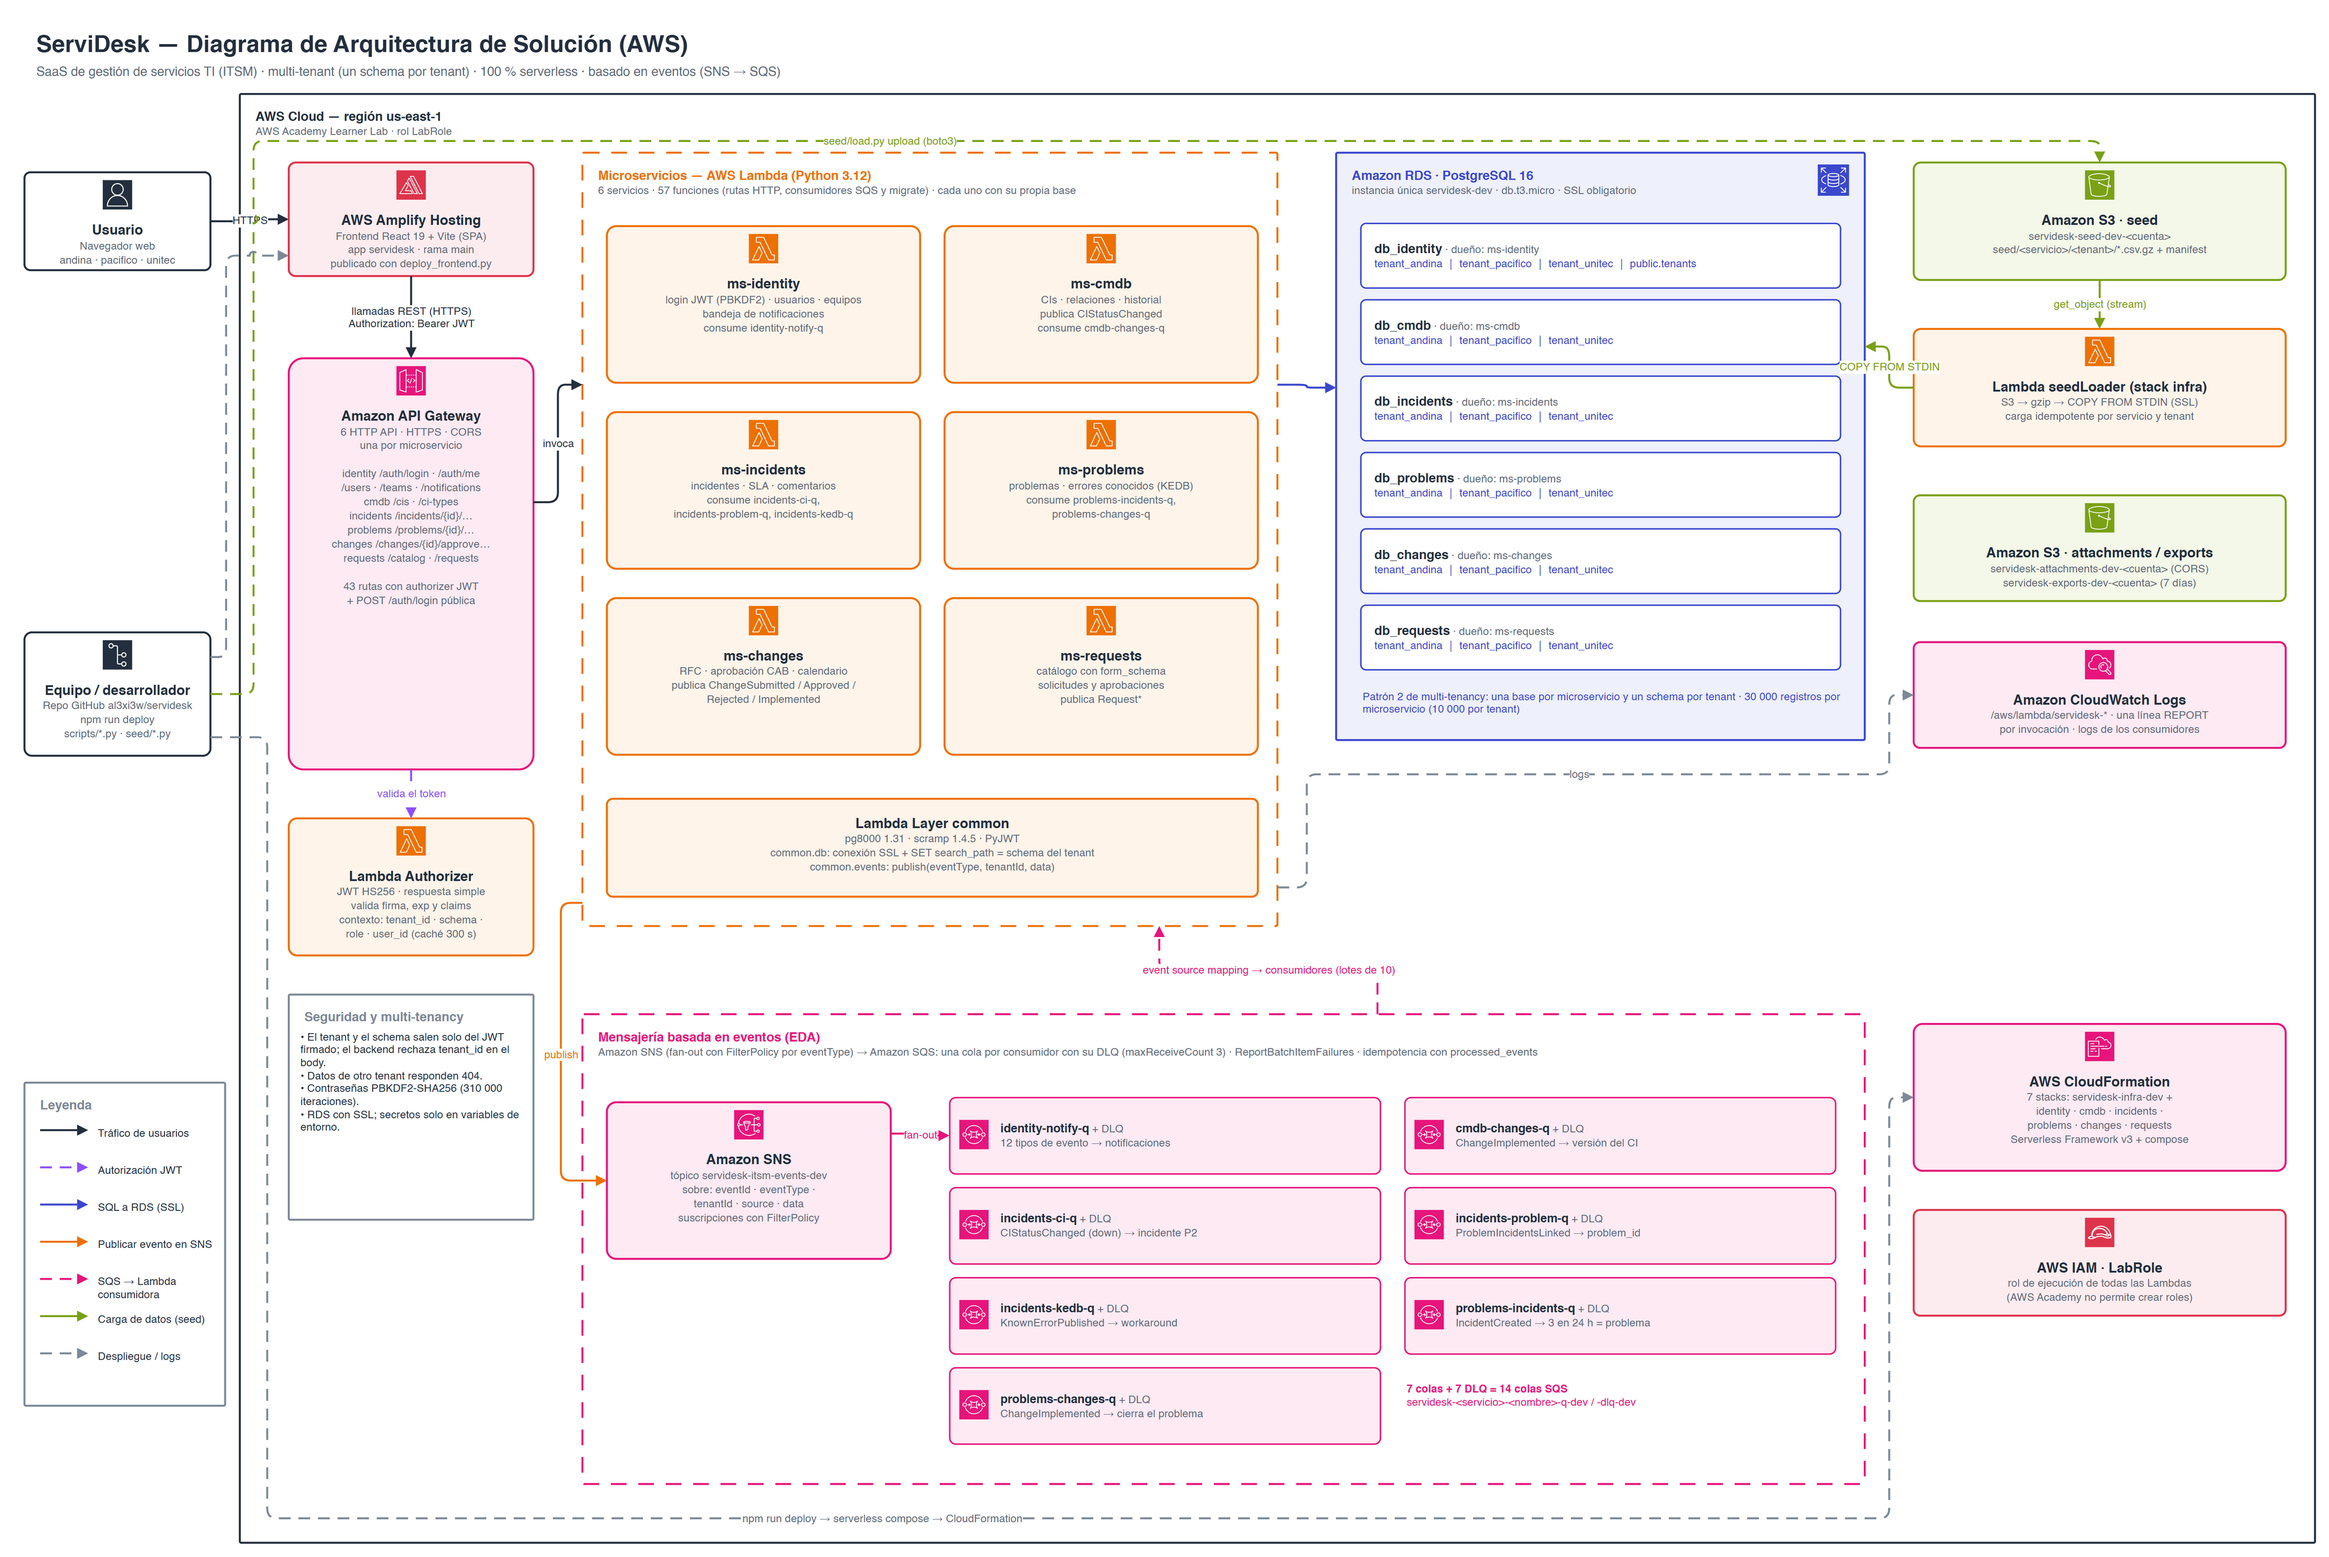
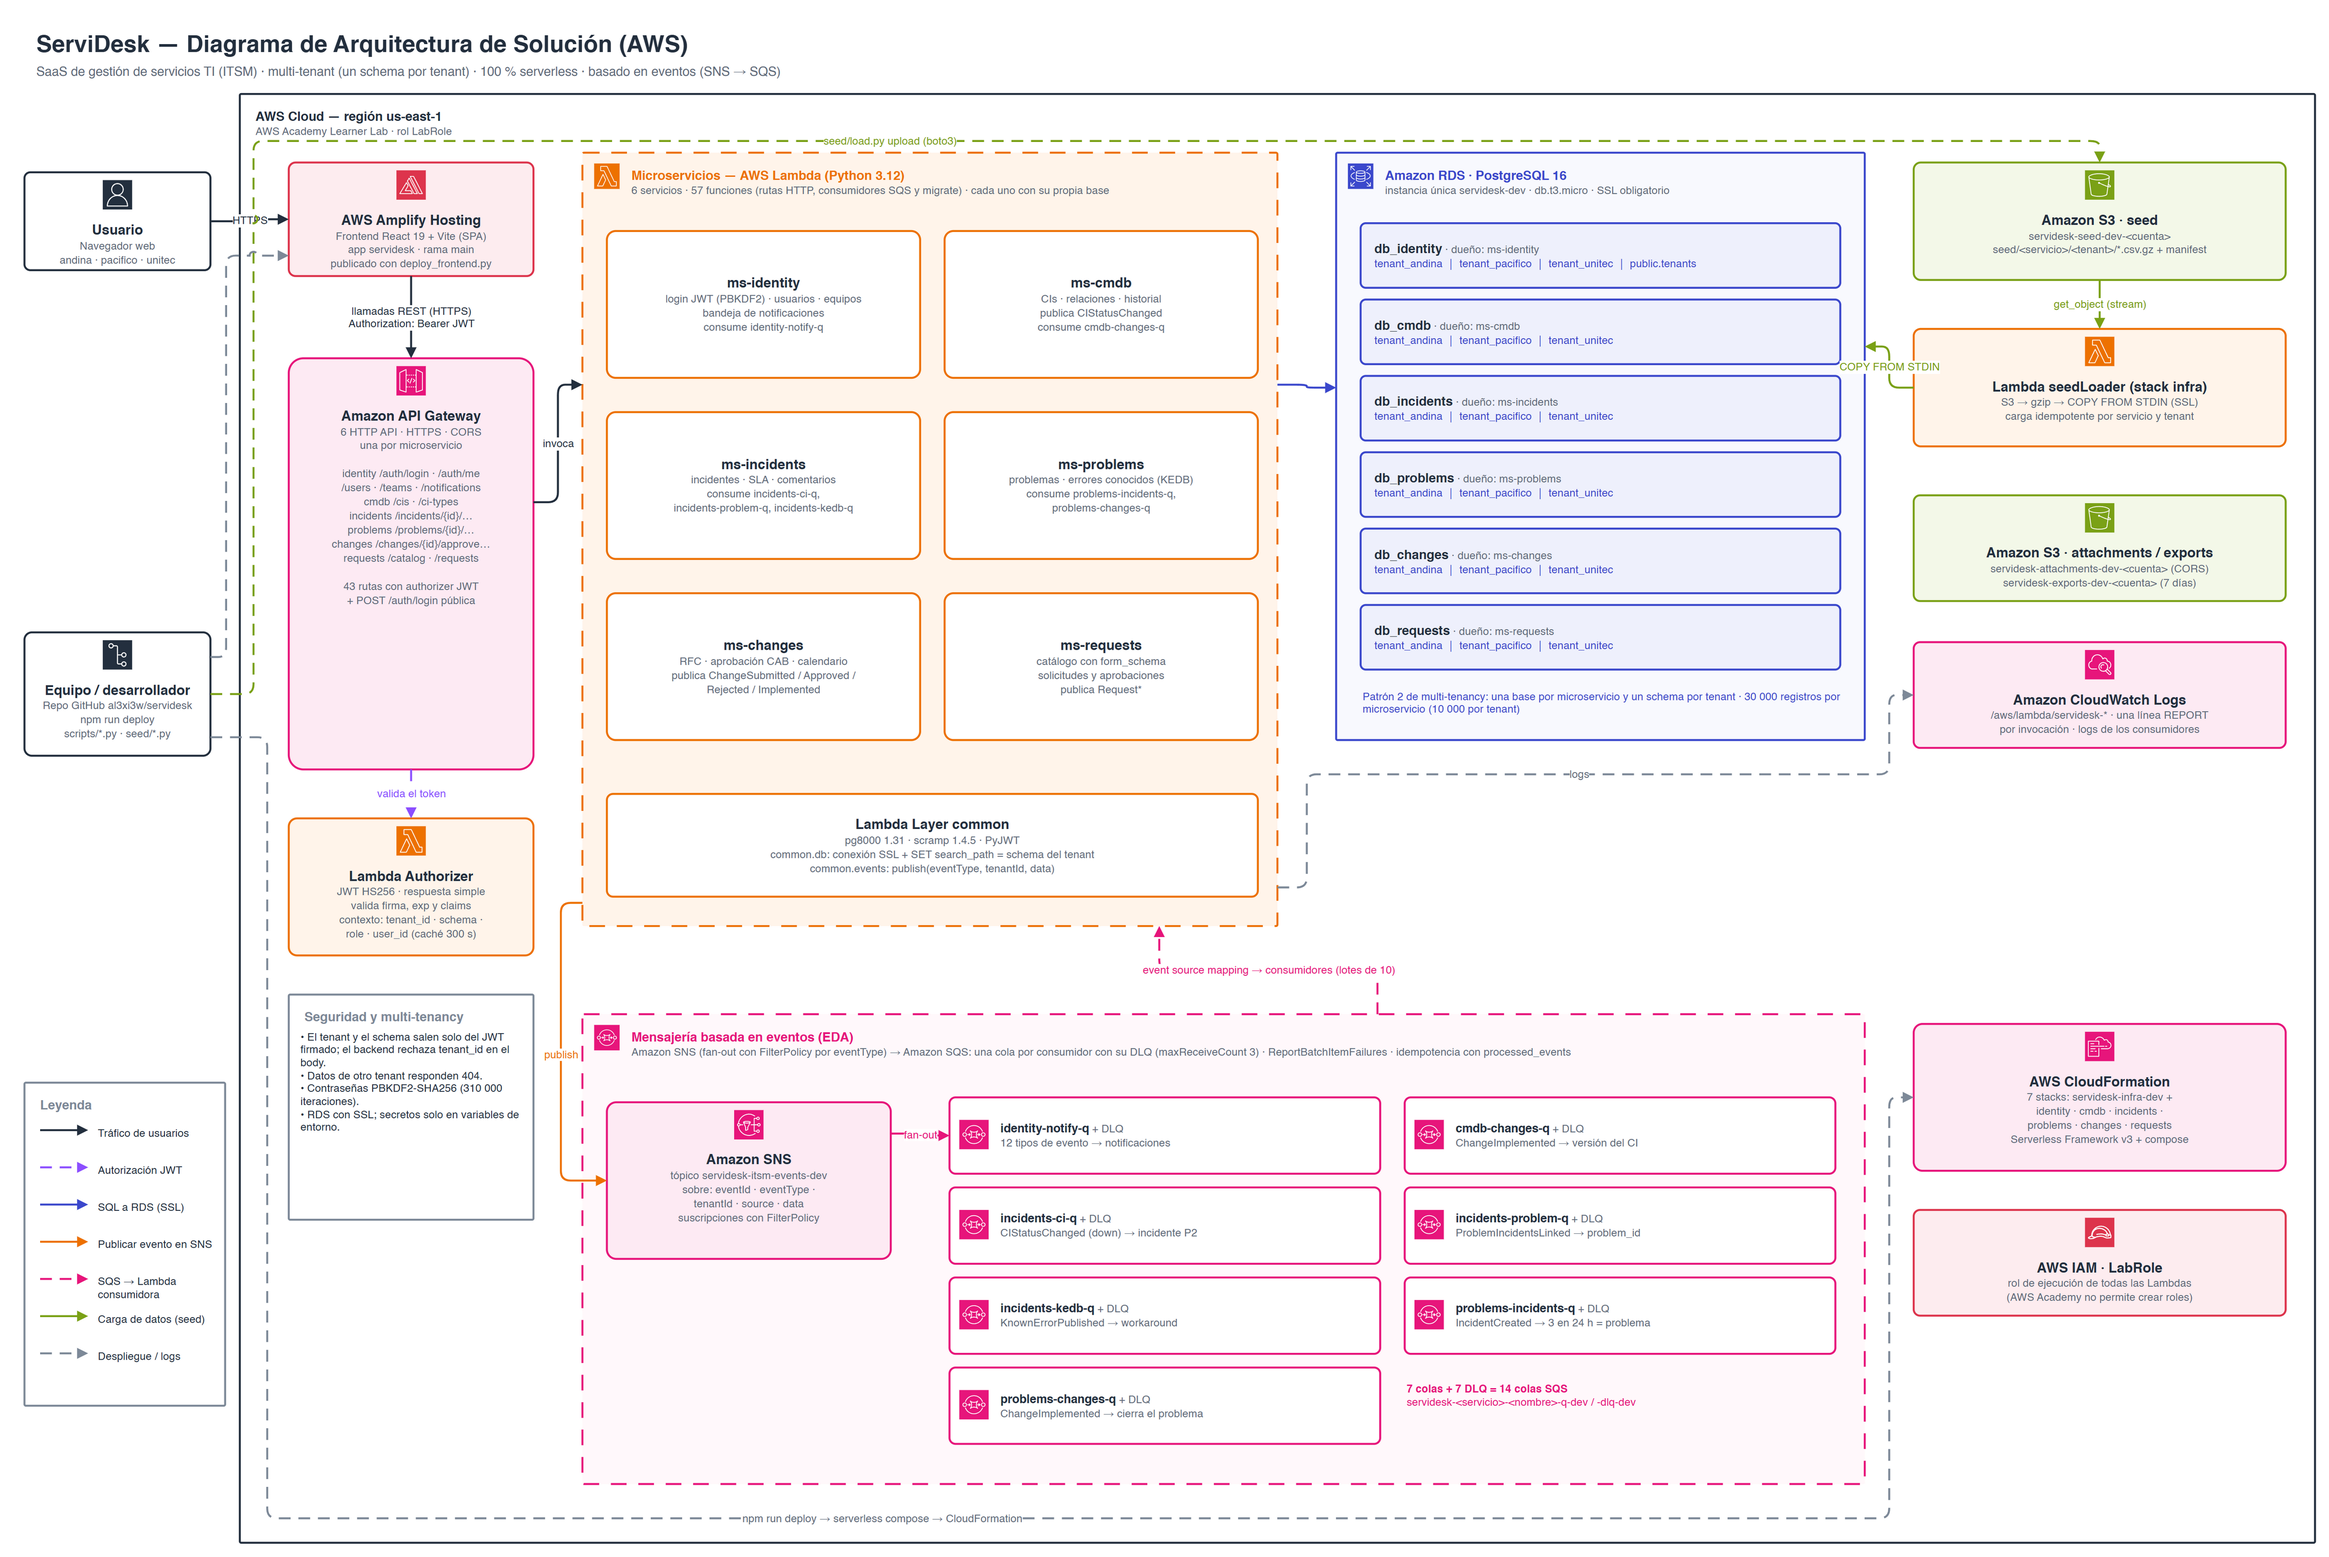
docs: arquitectura con el estilo del proyecto 1 (íconos en grupos, componentes blancos, BD lavanda)

diff --git a/docs/diagramas/build_diagrams.py b/docs/diagramas/build_diagrams.py
@@ -100,15 +100,32 @@ def text(p, x, y, w, h, value, size=12, bold=False, color=INK, align="left", val
 
 
 def group(p, x, y, w, h, title, subtitle="", color="#232F3E", fill="#FFFFFF", dashed=False, rounded=True,
-          title_size=13, width=2):
+          title_size=13, width=2, res=None):
+    """Contenedor con título arriba a la izquierda; con res, el ícono del servicio va antes del título
+    (como los grupos "VPC" y "EC2 · …" del proyecto 1)."""
     label = f'<b style="font-size:{title_size}px">{html.escape(title)}</b>'
     if subtitle:
         label += f'<br><span style="font-size:11px;color:{MUTED}">{html.escape(subtitle)}</span>'
-    return p.vertex(x, y, w, h, label,
-                    f"rounded={1 if rounded else 0};arcSize=3;absoluteArcSize=1;html=1;whiteSpace=wrap;"
-                    f"fontFamily={FONT};fontColor={color};strokeColor={color};fillColor={fill};"
-                    f"strokeWidth={width};dashed={1 if dashed else 0};dashPattern=8 6;align=left;verticalAlign=top;"
-                    f"spacingLeft=14;spacingTop=8;container=0;")
+    cid = p.vertex(x, y, w, h, label,
+                   f"rounded={1 if rounded else 0};arcSize=3;absoluteArcSize=1;html=1;whiteSpace=wrap;"
+                   f"fontFamily={FONT};fontColor={color};strokeColor={color};fillColor={fill};"
+                   f"strokeWidth={width};dashed={1 if dashed else 0};dashPattern=8 6;align=left;verticalAlign=top;"
+                   f"spacingLeft={48 if res else 14};spacingTop=8;container=0;")
+    if res:
+        icon(p, x + 12, y + 11, res, color, 26)
+    return cid
+
+
+def component(p, x, y, w, h, title, lines, color, fill="#FFFFFF", title_size=14, line_size=11):
+    """Componente dentro de un grupo: blanco con borde de color, sin ícono (como 'ms-productos :8001')."""
+    body = f'<b style="font-size:{title_size}px;color:{INK}">{html.escape(title)}</b>'
+    if lines:
+        body += f'<br><span style="font-size:{line_size}px;color:{MUTED}">' + \
+                "<br>".join(html.escape(line) for line in lines) + "</span>"
+    return p.vertex(x, y, w, h, body,
+                    f"rounded=1;arcSize=6;html=1;whiteSpace=wrap;fontFamily={FONT};strokeColor={color};"
+                    f"fillColor={fill};strokeWidth=2;align=center;verticalAlign=middle;spacingLeft=8;"
+                    f"spacingRight=8;")
 
 
 def icon(p, x, y, res, color, size=30):
@@ -189,7 +206,7 @@ def architecture():
     # ---------------------------------------------------------------- microservicios
     lam = group(p, 600, 150, 710, 790, "Microservicios — AWS Lambda (Python 3.12)",
                 "6 servicios · 57 funciones (rutas HTTP, consumidores SQS y migrate) · cada uno con su propia base",
-                color=C["compute"][0], fill="#FFFFFF", dashed=True)
+                color=C["compute"][0], fill=C["compute"][1], dashed=True, res="lambda")
     specs = [
         ("ms-identity", ["login JWT (PBKDF2) · usuarios · equipos", "bandeja de notificaciones",
                          "consume identity-notify-q"]),
@@ -204,15 +221,15 @@ def architecture():
     ]
     for i, (title, lines) in enumerate(specs):
         col, row = i % 2, i // 2
-        service(p, 625 + col * 345, 225 + row * 190, 320, 160, title, lines, "compute", "lambda")
-    service(p, 625, 810, 665, 100, "Lambda Layer common",
-            ["pg8000 1.31 · scramp 1.4.5 · PyJWT", "common.db: conexión SSL + SET search_path = schema del tenant",
-             "common.events: publish(eventType, tenantId, data)"], "compute", None)
+        component(p, 625 + col * 345, 230 + row * 185, 320, 150, title, lines, C["compute"][0])
+    component(p, 625, 805, 665, 105, "Lambda Layer common",
+              ["pg8000 1.31 · scramp 1.4.5 · PyJWT", "common.db: conexión SSL + SET search_path = schema del tenant",
+               "common.events: publish(eventType, tenantId, data)"], C["compute"][0])
 
     # ---------------------------------------------------------------- RDS
     rds = group(p, 1370, 150, 540, 600, "Amazon RDS · PostgreSQL 16",
-                "instancia única servidesk-dev · db.t3.micro · SSL obligatorio", color=C["db"][0], fill=C["db"][1])
-    icon(p, 1862, 162, "rds", C["db"][0], 32)
+                "instancia única servidesk-dev · db.t3.micro · SSL obligatorio", color=C["db"][0], fill="#F8F9FE",
+                res="rds")
     for i, key in enumerate(["identity", "cmdb", "incidents", "problems", "changes", "requests"]):
         p.vertex(1395, 222 + i * 78, 490, 66,
                  f'<b style="font-size:13px;color:{INK}">db_{key}</b>'
@@ -220,7 +237,7 @@ def architecture():
                  f'<span style="font-size:11px;color:#3B48CC">tenant_andina │ tenant_pacifico │ tenant_unitec</span>'
                  + ('<span style="font-size:11px;color:#3B48CC"> │ public.tenants</span>' if key == "identity" else ""),
                  f"rounded=1;arcSize=8;html=1;whiteSpace=wrap;fontFamily={FONT};strokeColor=#3B48CC;"
-                 f"fillColor=#FFFFFF;strokeWidth=1.5;align=left;verticalAlign=middle;spacingLeft=12;")
+                 f"fillColor=#EEF0FC;strokeWidth=2;align=left;verticalAlign=middle;spacingLeft=12;")
     text(p, 1395, 692, 500, 50, "Patrón 2 de multi-tenancy: una base por microservicio y un schema por tenant · "
                                 "30 000 registros por microservicio (10 000 por tenant)", 11, color="#3B48CC")
 
@@ -248,7 +265,7 @@ def architecture():
     eda = group(p, 600, 1030, 1310, 480, "Mensajería basada en eventos (EDA)",
                 "Amazon SNS (fan-out con FilterPolicy por eventType) → Amazon SQS: una cola por consumidor con su DLQ "
                 "(maxReceiveCount 3) · ReportBatchItemFailures · idempotencia con processed_events",
-                color=C["appint"][0], fill="#FFFFFF", dashed=True)
+                color=C["appint"][0], fill="#FFF8FB", dashed=True, res="sqs")
     sns = service(p, 625, 1120, 290, 160, "Amazon SNS",
                   ["tópico servidesk-itsm-events-dev", "sobre: eventId · eventType ·", "tenantId · source · data",
                    "suscripciones con FilterPolicy"], "appint", "sns")
@@ -270,7 +287,7 @@ def architecture():
                      f'<span style="font-size:11px;color:{MUTED}">  + DLQ</span><br>'
                      f'<span style="font-size:11px;color:{MUTED}">{html.escape(what)}</span>',
                      f"rounded=1;arcSize=8;html=1;whiteSpace=wrap;fontFamily={FONT};strokeColor={C['appint'][0]};"
-                     f"fillColor={C['appint'][1]};strokeWidth=1.5;align=left;verticalAlign=middle;spacingLeft=50;")
+                     f"fillColor=#FFFFFF;strokeWidth=2;align=left;verticalAlign=middle;spacingLeft=50;")
         icon(p, qx + 10, qy + 23, "sqs", C["appint"][0], 30)
         first_q = first_q or q
     text(p, 1440, 1400, 450, 60, "<b>7 colas + 7 DLQ = 14 colas SQS</b><br>"
